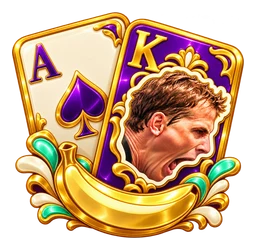
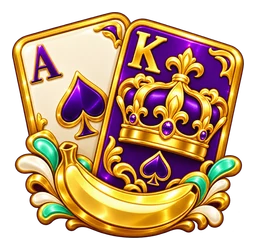
Remove Emil theme from wheel and Bananjack

diff --git a/app/pages/spil/casino.vue b/app/pages/spil/casino.vue
@@ -8,7 +8,7 @@ const { state } = useEconomy()
     <header>
       <div class="brand">
         <img
-          src="/marker.png"
+          src="/badges/banana-baron.webp"
           alt=""
         /><span>Stenbygaard Stickers</span
         ><NuxtLink
@@ -36,7 +36,7 @@ const { state } = useEconomy()
       aria-labelledby="bananjack-title"
     >
       <div class="card-top">
-        <span class="table-label">EMILS SPILLEBORD</span><span class="status">Spil nu →</span>
+        <span class="table-label">CASINOBORDET</span><span class="status">Spil nu →</span>
       </div>
       <div
         class="table-art"
@@ -53,10 +53,30 @@ const { state } = useEconomy()
         </div>
         <div class="playing-card king">
           <b>K</b
-          ><img
-            src="/marker.png"
-            alt=""
-          /><b class="corner">K</b>
+          ><svg
+            viewBox="0 0 64 72"
+            aria-hidden="true"
+          >
+            <path
+              d="M9 22 23 35 32 13 41 35 55 22 49 55H15Z"
+              fill="#d3a34e"
+              stroke="#8f6429"
+              stroke-width="3"
+              stroke-linejoin="round"
+            />
+            <path
+              d="M16 61H48"
+              stroke="#8f6429"
+              stroke-width="5"
+              stroke-linecap="round"
+            />
+            <circle
+              cx="32"
+              cy="43"
+              r="4"
+              fill="#78538b"
+            /></svg
+          ><b class="corner">K</b>
         </div>
         <span class="chip chip-one" /><span class="chip chip-two" /><span class="chip chip-three" />
         <img
@@ -238,7 +258,7 @@ h1 > span {
   transform: translateX(-6%) rotate(13deg);
   background: linear-gradient(145deg, #fff8dd, #ead4a1);
 }
-.king img {
+.king svg {
   position: absolute;
   width: 58px;
   height: 78px;

diff --git a/docs/designs/neutral-casino-badges/index.html b/docs/designs/neutral-casino-badges/index.html
@@ -1,0 +1,1 @@
+<!doctype html><html lang="da"><meta charset="utf-8"><meta name="viewport" content="width=device-width,initial-scale=1"><title>Neutrale hjul- og Bananjack-badges</title><style>body{background:#191420;color:#fff2d8;font:16px system-ui;padding:24px;max-width:1000px;margin:auto}main{display:grid;grid-template-columns:repeat(auto-fit,minmax(220px,1fr));gap:16px}figure{background:#292134;margin:0;padding:20px;border-radius:22px;text-align:center}img{width:100%;max-width:256px}figcaption{margin-top:12px}small{display:block;color:#bdb2c9;margin-top:6px}</style><h1>Hjul og Bananjack</h1><p>Ni neutrale 3D-motiver med bananer, kort og casino-symboler.</p><main><figure><img src="wheel-spins.png" alt="En omgang mere"><figcaption>En omgang mere<small>wheel-spins</small></figcaption></figure><figure><img src="jack-rounds.png" alt="Ved bordet"><figcaption>Ved bordet<small>jack-rounds</small></figcaption></figure><figure><img src="jack-wins.png" alt="Bananbanker"><figcaption>Bananbanker<small>jack-wins</small></figcaption></figure><figure><img src="jack-naturals.png" alt="Bananjack!"><figcaption>Bananjack!<small>jack-naturals</small></figcaption></figure><figure><img src="jack-doubles.png" alt="Is i maven"><figcaption>Is i maven<small>jack-doubles</small></figcaption></figure><figure><img src="jack-split.png" alt="Del og hersk"><figcaption>Del og hersk<small>jack-split</small></figcaption></figure><figure><img src="jack-back-to-back.png" alt="To modne i træk"><figcaption>To modne i træk<small>jack-back-to-back</small></figcaption></figure><figure><img src="jack-five-card.png" alt="På stregen"><figcaption>På stregen<small>jack-five-card</small></figcaption></figure><figure><img src="jack-dealer-bust.png" alt="Dealeren gik over"><figcaption>Dealeren gik over<small>jack-dealer-bust</small></figcaption></figure></main></html>

diff --git a/app/utils/jackFrames.ts b/app/utils/jackFrames.ts
@@ -23,15 +23,15 @@ export function jackFrames(previous: JackPublic | null, next: JackPublic): JackF
     stage.hands.forEach((h) => {
       h.cards = []
     })
-    push('Emil giver kort…', 120)
+    push('Dealeren giver kort…', 120)
     stage.hands[0]!.cards.push(next.hands[0]!.cards[0]!)
     push('Dit første kort')
     stage.dealer.push(next.dealer[0]!)
-    push('Emils første kort')
+    push('Dealerens første kort')
     stage.hands[0]!.cards.push(next.hands[0]!.cards[1]!)
     push('Dit andet kort')
     stage.dealer.push(null)
-    push('Emils skjulte kort')
+    push('Dealerens skjulte kort')
   } else {
     const visible = new Set(previous.hands.flatMap((h) => h.cards))
     for (const hand of stage.hands) hand.cards = hand.cards.filter((card) => visible.has(card))
@@ -47,10 +47,10 @@ export function jackFrames(previous: JackPublic | null, next: JackPublic): JackF
   }
   if (next.status === 'finished') {
     stage.dealer = next.dealer.slice(0, 2)
-    push('Emil vender sit kort…', 650)
+    push('Dealeren vender sit kort…', 650)
     for (let i = 2; i < next.dealer.length; i++) {
       stage.dealer.push(next.dealer[i]!)
-      push('Emil trækker et kort…', 650)
+      push('Dealeren trækker et kort…', 650)
     }
   }
   frames.push({ game: copy(next), label: '', delay: 0 })

diff --git a/app/pages/spil/bananjack.vue b/app/pages/spil/bananjack.vue
@@ -93,7 +93,7 @@ const {
       :aria-busy="busy || animating"
     >
       <div class="dealer-label">
-        <b>Emils hånd</b><span class="score">{{ dealerValue }}</span>
+        <b>Dealerens hånd</b><span class="score">{{ dealerValue }}</span>
       </div>
       <TransitionGroup
         v-if="game"
@@ -149,10 +149,10 @@ const {
         class="empty-hand"
       >
         <img
-          src="/marker.png"
+          src="/badges/banana-baron.webp"
           alt=""
         />
-        <p>Emil har blandet kortene.<br />Han ser meget sikker ud. Det gør han altid.</p>
+        <p>Vælg din indsats for at starte.</p>
       </div>
     </section>
     <div
@@ -265,7 +265,7 @@ const {
         </button>
         <h2>Sådan spiller du Bananjack</h2>
         <ul>
-          <li>Kom tættere på 21 end Emil. Over 21 taber.</li>
+          <li>Kom tættere på 21 end dealeren. Over 21 taber.</li>
           <li>Es er 1 eller 11. Billedkort er 10.</li>
           <li>
             Seks kortspil blandes på ny til hver runde. Dealeren tjekker for blackjack og står på

diff --git a/app/pages/spil/hjulet.vue b/app/pages/spil/hjulet.vue
@@ -175,11 +175,7 @@ async function play(direction: 1 | -1 = 1) {
             alt="bananer"
         /></strong>
         <p>
-          {{
-            prize
-              ? 'Gevinsten er gemt · badgebonusser kommer oveni.'
-              : 'Emil påtager sig intet ansvar.'
-          }}
+          {{ prize ? 'Gevinsten er gemt · badgebonusser kommer oveni.' : 'Bedre held næste gang.' }}
         </p>
       </div>
       <button
@@ -194,7 +190,7 @@ async function play(direction: 1 | -1 = 1) {
         >
           <path d="M19 8a8 8 0 1 0 1 7M19 3v5h-5" /></svg
         ><span
-          >{{ spinning ? 'Kom så, Emil…' : 'Drej hjulet'
+          >{{ spinning ? 'Kom så, hjulet…' : 'Drej hjulet'
           }}<small>{{
             spinning ? 'Lidt spænding må der være' : 'Tryk her eller træk i hjulet'
           }}</small></span

diff --git a/app/composables/useBananjack.ts b/app/composables/useBananjack.ts
@@ -59,7 +59,7 @@ export function useBananjack() {
             ? 'Bananer i hus!'
             : net.value === 0
               ? 'Lige op'
-              : 'Emil tog den her.',
+              : 'Dealeren vandt.',
   )
   const labels = { blackjack: 'Bananjack!', win: 'Vundet', lose: 'Tabt', push: 'Lige op' }
   async function accept(response: JackResponse, animate = false) {

diff --git a/server/utils/daily-games.ts b/server/utils/daily-games.ts
@@ -34,7 +34,11 @@ export async function dailyResponse(
     day,
     nextResetAt: nextGameReset(),
     wallet,
-    history: record.history,
+    history: record.history.map((entry) =>
+      entry.id === 'badge:jack-dealer-bust'
+        ? { ...entry, label: 'Badge · Dealeren gik over' }
+        : entry,
+    ),
     wheelJackpot,
     city: {
       ...city,

diff --git a/app/components/WheelFace.vue b/app/components/WheelFace.vue
@@ -67,8 +67,8 @@ const background = `conic-gradient(${WHEEL_SLOTS.map((s) => `${s.color} ${s.star
     />
     <div class="hub">
       <img
-        src="/marker.png"
-        alt="Emil på lykkehjulet"
+        src="/badges/banana-baron.webp"
+        alt="Banan i lykkehjulets centrum"
         draggable="false"
       />
     </div>

diff --git a/shared/utils/jackBadges.ts b/shared/utils/jackBadges.ts
@@ -126,7 +126,7 @@ export function jackBadges(economy?: EconomyPublic): Badge[] {
     make(
       'jack-dealer-bust',
       '💥',
-      ['Emil gik over'],
+      ['Dealeren gik over'],
       [1],
       stats.dealerBustWins,
       'Vind med højst 16, fordi dealeren går over',

diff --git a/app/components/JackCard.vue b/app/components/JackCard.vue
@@ -18,7 +18,7 @@ const symbols = ['♠', '♥', '♦', '♣']
   >
     <img
       v-if="card === null"
-      src="/marker.png"
+      src="/badges/banana-baron.webp"
       alt=""
     />
     <template v-else

diff --git a/docs/designs/neutral-casino-badges.md b/docs/designs/neutral-casino-badges.md
@@ -1,0 +1,23 @@
+# Neutrale casino- og hjulbadges
+
+31. oktober 2026. De ni motiver er redigeret med den indbyggede `image_gen` (præcis objektredigering), med de tidligere `public/badges/custom/<id>.webp` som redigeringsmål. De nye PNG-originaler ligger i `neutral-casino-badges/`; optimerede transparente WebP-ikoner er installeret på de samme stier i `public/badges/custom/`. `neutral-casino-badges/index.html` og `oversigt.png` viser sættet.
+
+Alle otte Bananjack-portrætter og portrættet i `wheel-spins` er erstattet. `wheel-streak`, `wheel-jackpot` og `wheel-nits` var allerede uden Emil og er bevaret. Badge-id'er, regler, points, belønninger og fremskridt er uændrede. x83 hedder nu **Dealeren gik over**.
+
+## Prompt-sæt
+
+Fælles krav: precise-object-edit; preserve the existing playful premium glossy 3D styling, purple enamel, warm metallic gold, cream and mint palette, original composition and readable small-size silhouette. No human face, portrait, head, recognizable person or head-shaped sticker anywhere. Genuine transparent alpha background, square fully-contained icon with padding; no backdrop, floor, outer medal ring, watermark or extra text. `transparent_background=true` for alle kald.
+
+| Nr. | Fil | Konkret redigering |
+|---|---|---|
+| x71 | wheel-spins.png | Replace ONLY the human head/photo in the wheel centre with a polished curved gold banana emblem. Keep the purple and gold prize wheel, pointer, lights, base, perspective, rich 3D materials, composition and transparent padding unchanged. |
+| x76 | jack-rounds.png | Remove the human shouting head and its sticker outline from behind the blackjack table. Replace it with a small elegant upright gold spade ornament in the same position. Preserve the green miniature table, cards, gold chips, purple rim, lighting, 3D material detail and transparency. |
+| x77 | jack-wins.png | Replace the small human portrait on the front chip stack with a clean round gold chip bearing a purple spade. Preserve the curved gold banana, chip stacks, mint laurels and all other material detail. |
+| x78 | jack-naturals.png | Remove the human head portrait from the K playing card. Replace it with a refined large gold crown and small spade motif, part of the purple card face. Preserve the A and K corner ranks, cream/purple cards, curved gold banana below, mint ornaments and high-detail glossy 3D styling. |
+| x79 | jack-doubles.png | Remove the human portrait and sticker outline from the ice cube. Show a crisp translucent faceted mint ice cube with a gold doubling arrow visible through it; preserve both purple/gold chip stacks, the large doubling arrows and ice shards. |
+| x80 | jack-split.png | Remove the large human head at the bottom. Replace it with a small elegant gold/purple casino chip with a spade emblem, naturally connected to the forked split arrows. Keep the two separate card hands, two green checks and original glossy purple/gold style. |
+| x81 | jack-back-to-back.png | Remove the human head on the left. Replace it with one small whole curved golden banana, without covering the four A/K card corners. Preserve the two card pairs, two mint/gold circular arrows, decorations and 3D material detail. |
+| x82 | jack-five-card.png | Remove the central human portrait and its outline. Let the decorative gold and purple balancing rail and mint ornaments frame the five clearly visible cards instead. Preserve exactly five cards with ranks A,2,3,5,10, gold/purple suits and rich 3D styling. No sixth card. |
+| x83 | jack-dealer-bust.png | Remove the human portrait entirely from the broken purple dealer card. Replace it with a large cracked gold spade integrated in the card. Preserve the fractured purple/gold playing cards, shattered gold line, red/gold fragments and mint shield protecting the curved gold banana. |
+
+Installation: `node scripts/install-badge-art.mjs docs/designs/neutral-casino-badges`. Kun skalering, alpha-bevarende beskæring og WebP-komprimering er udført med sharp; illustrationerne er redigeret med image_gen.

diff --git a/CLAUDE.md b/CLAUDE.md
@@ -105,3 +105,5 @@ Kort over stickers (med Stenbygaard-hovedet) sat op rundt om i verden. Talk to t
 - Daily backup cron performs the full badge/economy sync after authorization/rate checks, so annual awards settle without making public reads expensive.
 
 - Banana ledger shows20 transactions initially, expands by20 up to250, resets pagination when the account changes; credits use muted green, debits muted red with a single minus sign (both color schemes).
+
+- Wheel and Bananjack presentation are neutral banana/casino themed (31 Oct2026): no Emil portraits or references in WheelFace, card backs, casino card or game copy/animation labels. Nine custom badge motifs replaced in place (wheel-spins + all eight jack badges); originals/prompts in docs/designs/neutral-casino-badges. x83 is Dealeren gik over; stable IDs, rules, rewards and earned progress are preserved. Old dealer-bust ledger labels are normalized only in DailyResponse; stored history is preserved. City game and overall sticker branding remain unchanged.
